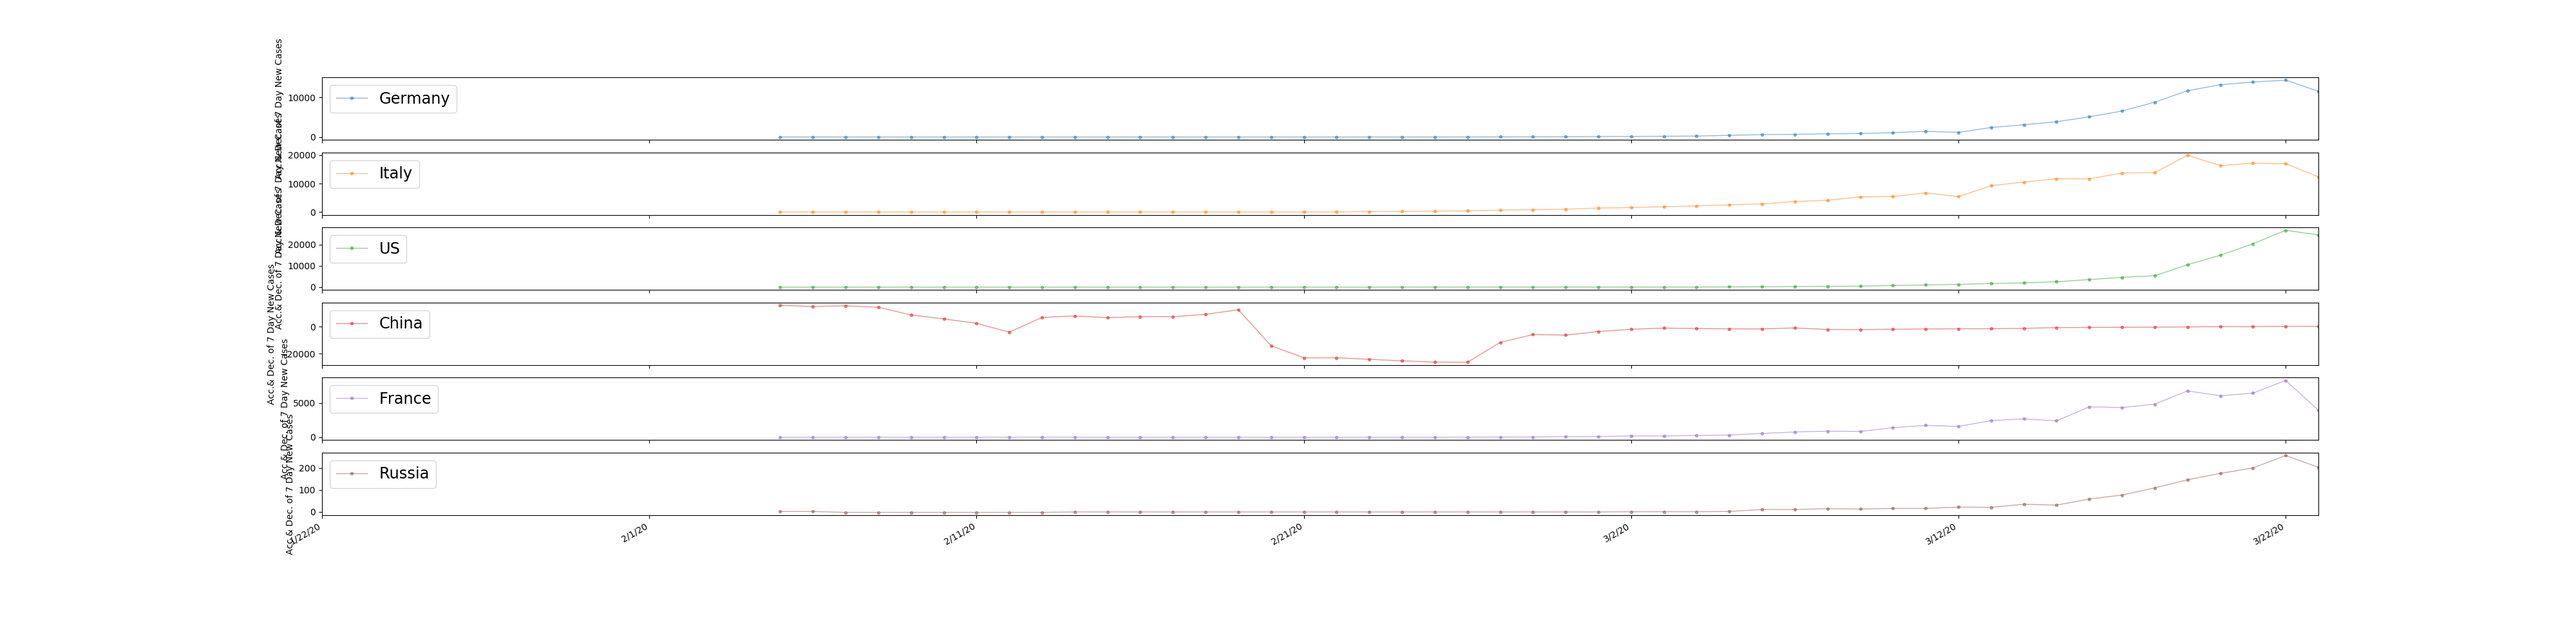
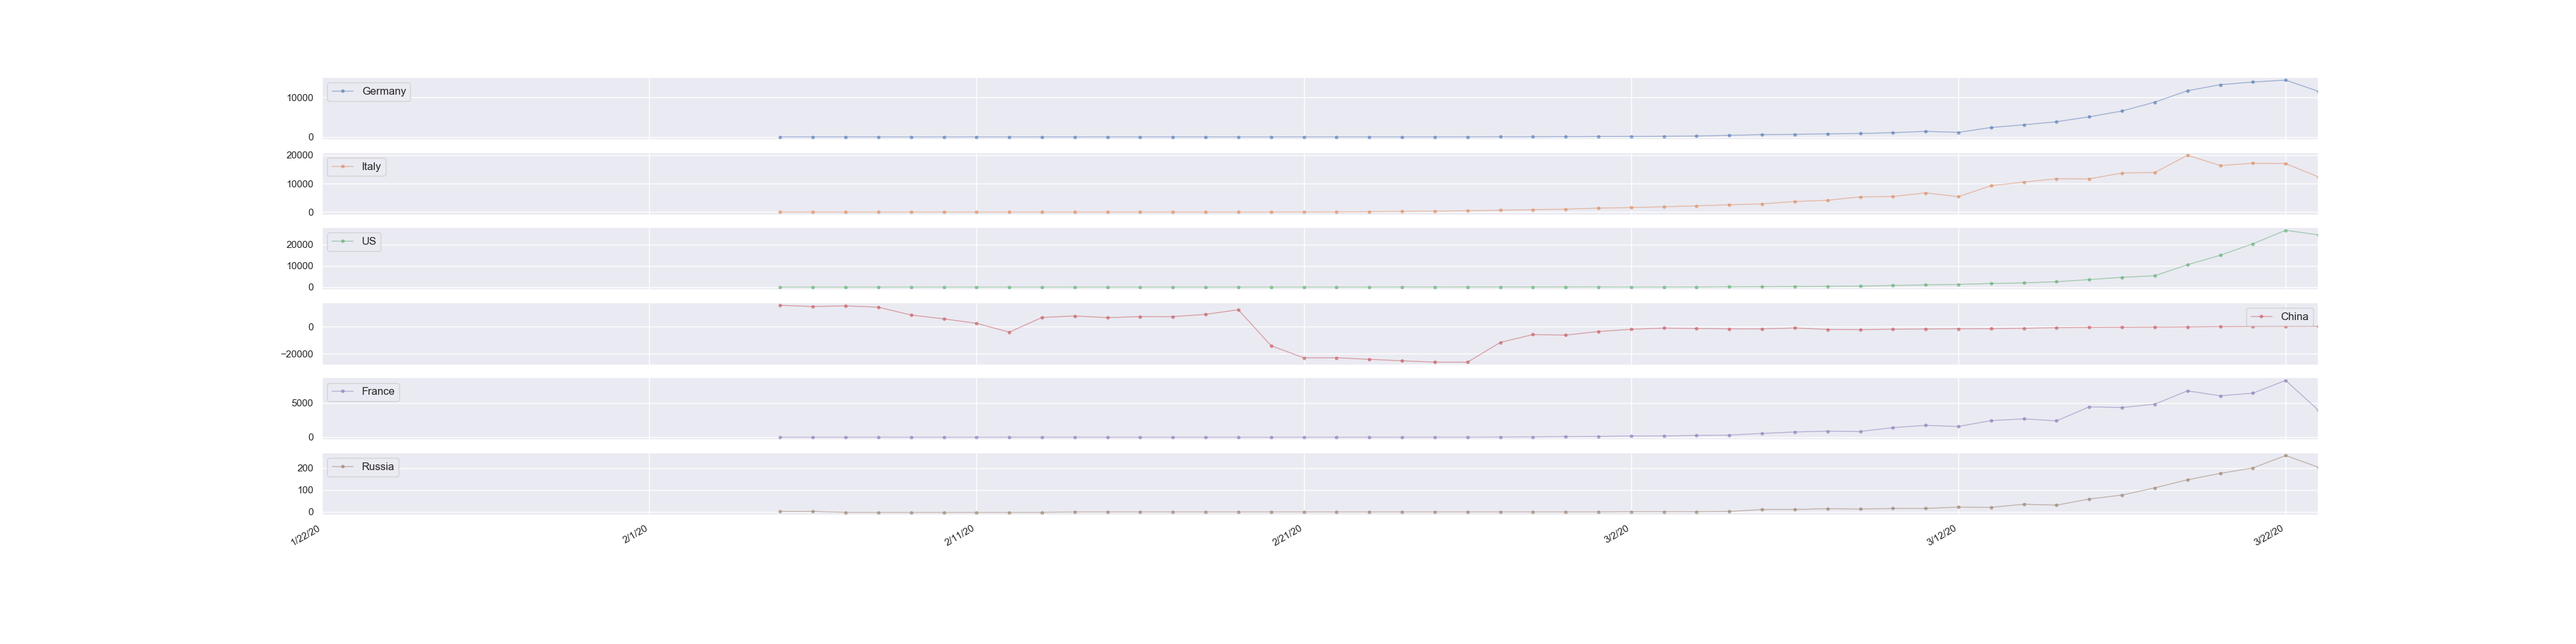
Daily UPD

diff --git a/COVID.py b/COVID.py
@@ -82,7 +82,7 @@ diff_2
 # In[773]:
 
 
-# sns.set(rc={'figure.figsize':(10, 5)})
+sns.set(rc={'figure.figsize':(10, 5)})
 
 
 # In[776]:
@@ -102,8 +102,8 @@ diff7_2.to_csv('/Users/mminakova/Documents/COVID/covid_tracker/covid/'+csv_name)
 cols_plot = ['Germany', 'Italy', 'US', 'China', 'France', 'Russia']
 axes = diff7_2[cols_plot].plot(marker='.', alpha=0.5, linestyle='-',linewidth = 1, figsize=(40, 10), subplots=True)
 for ax in axes:
-    ax.set_ylabel('Acc.& Dec. of 7 Day New Cases')
-    ax.legend(fontsize = 'xx-large')
+#     ax.set_ylabel('Acc.& Dec. of 7 Day New Cases')
+    ax.legend(fontsize = 'medium')
     plt.savefig('/Users/mminakova/Documents/COVID/covid_tracker/covid/Acceleration & Deceleration of 7 Day New Cases separately.png')
 
 
